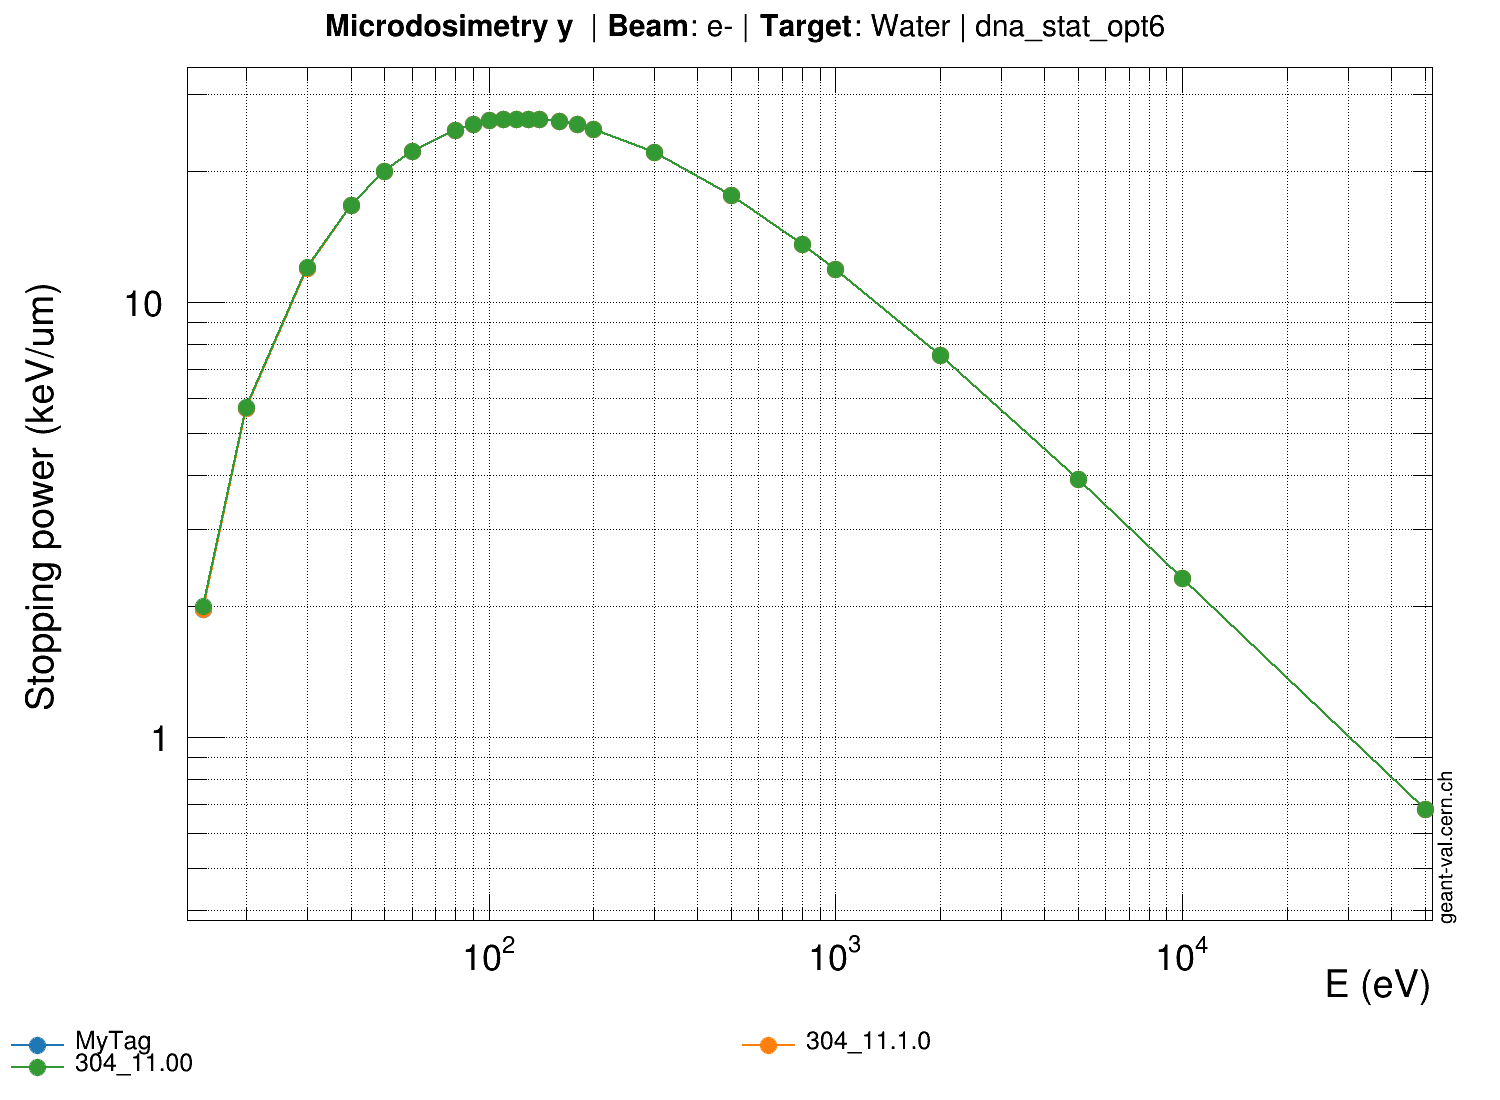
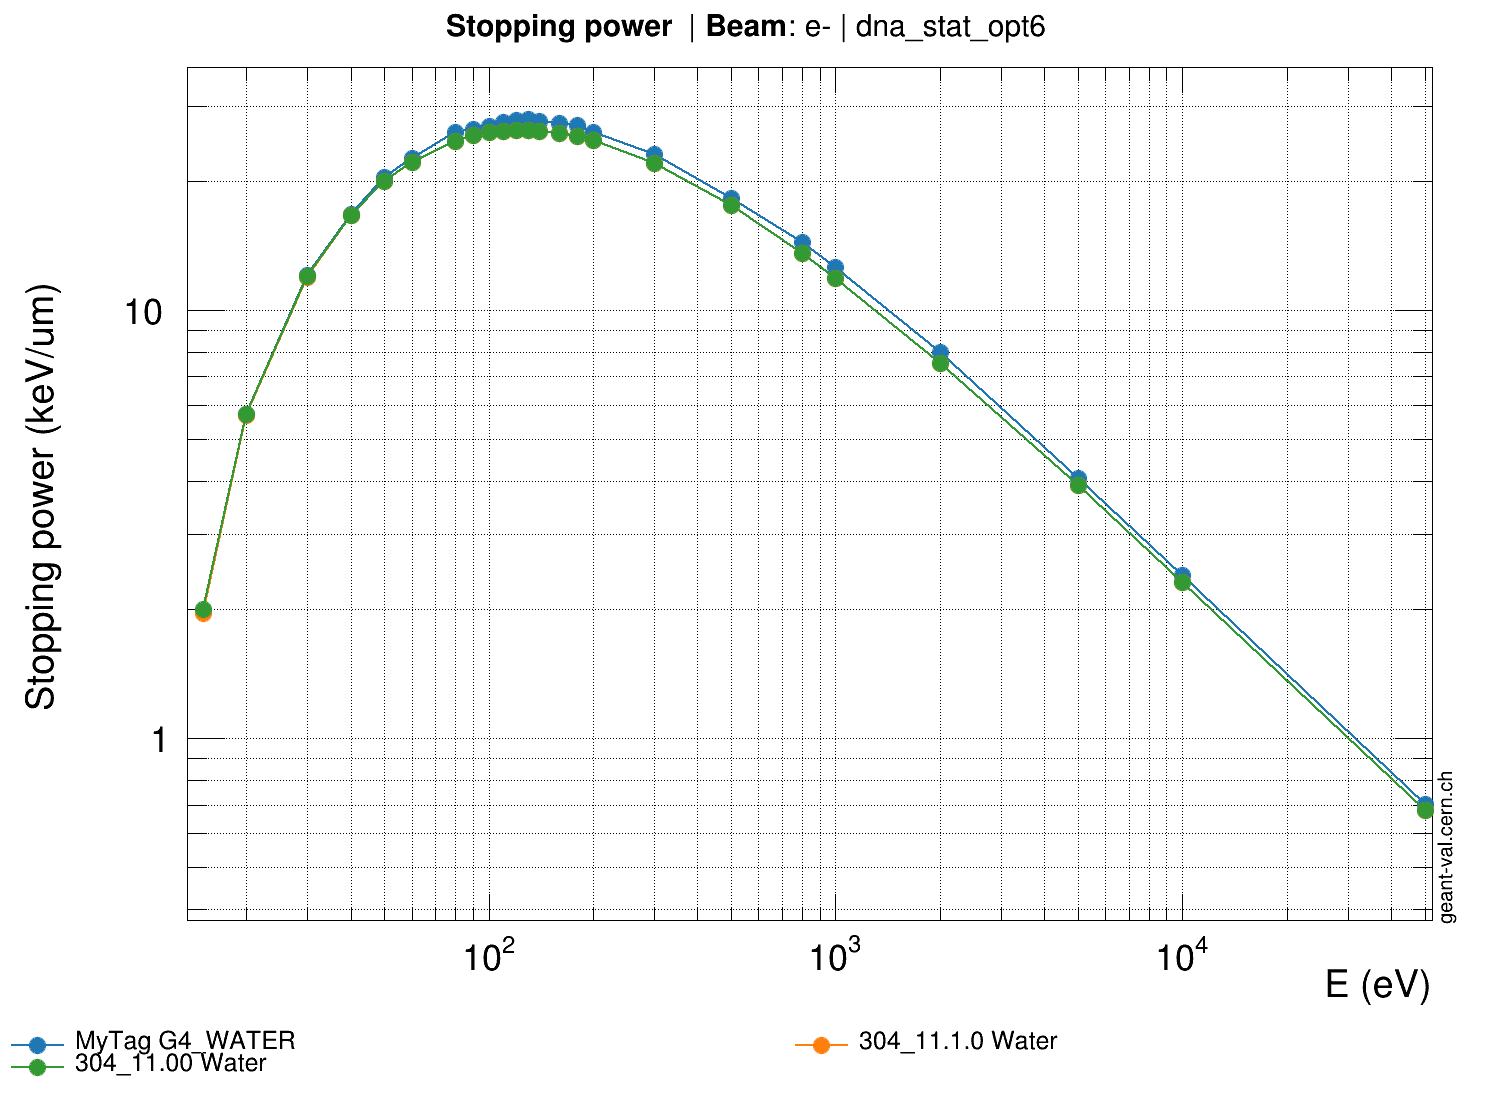
Finish and push to dna-val : mer. juin  7 13:39:24 CEST 2023

diff --git a/assets/OUTPUTJSON/MyTag_304_11.1.0_304_11.00_spower_electron.conf__dna_stat_opt6.c b/assets/OUTPUTJSON/MyTag_304_11.1.0_304_11.00_spower_electron.conf__dna_stat_opt6.c
@@ -670,3 +670,339 @@ double gvp_id-1_yerrors[24] = {
   0,
   0
 };
+// Tool:               GEANT4
+// Version:            MyTag
+// Model:              dna_stat_opt6
+// Observable:         stopping power
+// Target:             G4_WATER
+// Beam Particle:      e-
+// Secondary Particle: None
+
+double gvp_id-1_x[24] = {
+  15,
+  20,
+  30,
+  40,
+  50,
+  60,
+  80,
+  90,
+  100,
+  110,
+  120,
+  130,
+  140,
+  160,
+  180,
+  200,
+  300,
+  500,
+  800,
+  1000,
+  2000,
+  5000,
+  10000,
+  50000
+};
+double gvp_id-1_y[24] = {
+  1.97876,
+  5.70747,
+  12.085,
+  16.7734,
+  20.5058,
+  22.6588,
+  26.0875,
+  26.4677,
+  26.9726,
+  27.5083,
+  27.8602,
+  27.9817,
+  27.6829,
+  27.3442,
+  27.0463,
+  26.1153,
+  23.1235,
+  18.2684,
+  14.447,
+  12.6281,
+  7.97142,
+  4.05613,
+  2.40685,
+  0.703202
+};
+double gvp_id-1_xerrors[24] = {
+  0,
+  0,
+  0,
+  0,
+  0,
+  0,
+  0,
+  0,
+  0,
+  0,
+  0,
+  0,
+  0,
+  0,
+  0,
+  0,
+  0,
+  0,
+  0,
+  0,
+  0,
+  0,
+  0,
+  0
+};
+double gvp_id-1_yerrors[24] = {
+  0,
+  0,
+  0,
+  0,
+  0,
+  0,
+  0,
+  0,
+  0,
+  0,
+  0,
+  0,
+  0,
+  0,
+  0,
+  0,
+  0,
+  0,
+  0,
+  0,
+  0,
+  0,
+  0,
+  0
+};
+// Tool:               GEANT4
+// Version:            304_11.1.0
+// Model:              dna_stat_opt6
+// Observable:         stopping power
+// Target:             Water
+// Beam Particle:      e-
+// Secondary Particle: None
+
+double gvp_id-1_x[24] = {
+  15,
+  20,
+  30,
+  40,
+  50,
+  60,
+  80,
+  90,
+  100,
+  110,
+  120,
+  130,
+  140,
+  160,
+  180,
+  200,
+  300,
+  500,
+  800,
+  1000,
+  2000,
+  5000,
+  10000,
+  50000
+};
+double gvp_id-1_y[24] = {
+  1.96318,
+  5.68755,
+  11.9667,
+  16.6511,
+  19.9902,
+  22.1924,
+  24.8175,
+  25.609,
+  26.0822,
+  26.2409,
+  26.3027,
+  26.2881,
+  26.2107,
+  25.9441,
+  25.5253,
+  24.9483,
+  22.0662,
+  17.5936,
+  13.5741,
+  11.8563,
+  7.52567,
+  3.90274,
+  2.31357,
+  0.681574
+};
+double gvp_id-1_xerrors[24] = {
+  0,
+  0,
+  0,
+  0,
+  0,
+  0,
+  0,
+  0,
+  0,
+  0,
+  0,
+  0,
+  0,
+  0,
+  0,
+  0,
+  0,
+  0,
+  0,
+  0,
+  0,
+  0,
+  0,
+  0
+};
+double gvp_id-1_yerrors[24] = {
+  0,
+  0,
+  0,
+  0,
+  0,
+  0,
+  0,
+  0,
+  0,
+  0,
+  0,
+  0,
+  0,
+  0,
+  0,
+  0,
+  0,
+  0,
+  0,
+  0,
+  0,
+  0,
+  0,
+  0
+};
+// Tool:               GEANT4
+// Version:            304_11.00
+// Model:              dna_stat_opt6
+// Observable:         stopping power
+// Target:             Water
+// Beam Particle:      e-
+// Secondary Particle: None
+
+double gvp_id-1_x[24] = {
+  15,
+  20,
+  30,
+  40,
+  50,
+  60,
+  80,
+  90,
+  100,
+  110,
+  120,
+  130,
+  140,
+  160,
+  180,
+  200,
+  300,
+  500,
+  800,
+  1000,
+  2000,
+  5000,
+  10000,
+  50000
+};
+double gvp_id-1_y[24] = {
+  2.00043,
+  5.72257,
+  11.9992,
+  16.6482,
+  19.9776,
+  22.2015,
+  24.8254,
+  25.6567,
+  26.1034,
+  26.2409,
+  26.3027,
+  26.2881,
+  26.2107,
+  25.9441,
+  25.5253,
+  24.9483,
+  22.0662,
+  17.5936,
+  13.5741,
+  11.8563,
+  7.52567,
+  3.90274,
+  2.31357,
+  0.681574
+};
+double gvp_id-1_xerrors[24] = {
+  0,
+  0,
+  0,
+  0,
+  0,
+  0,
+  0,
+  0,
+  0,
+  0,
+  0,
+  0,
+  0,
+  0,
+  0,
+  0,
+  0,
+  0,
+  0,
+  0,
+  0,
+  0,
+  0,
+  0
+};
+double gvp_id-1_yerrors[24] = {
+  0,
+  0,
+  0,
+  0,
+  0,
+  0,
+  0,
+  0,
+  0,
+  0,
+  0,
+  0,
+  0,
+  0,
+  0,
+  0,
+  0,
+  0,
+  0,
+  0,
+  0,
+  0,
+  0,
+  0
+};
